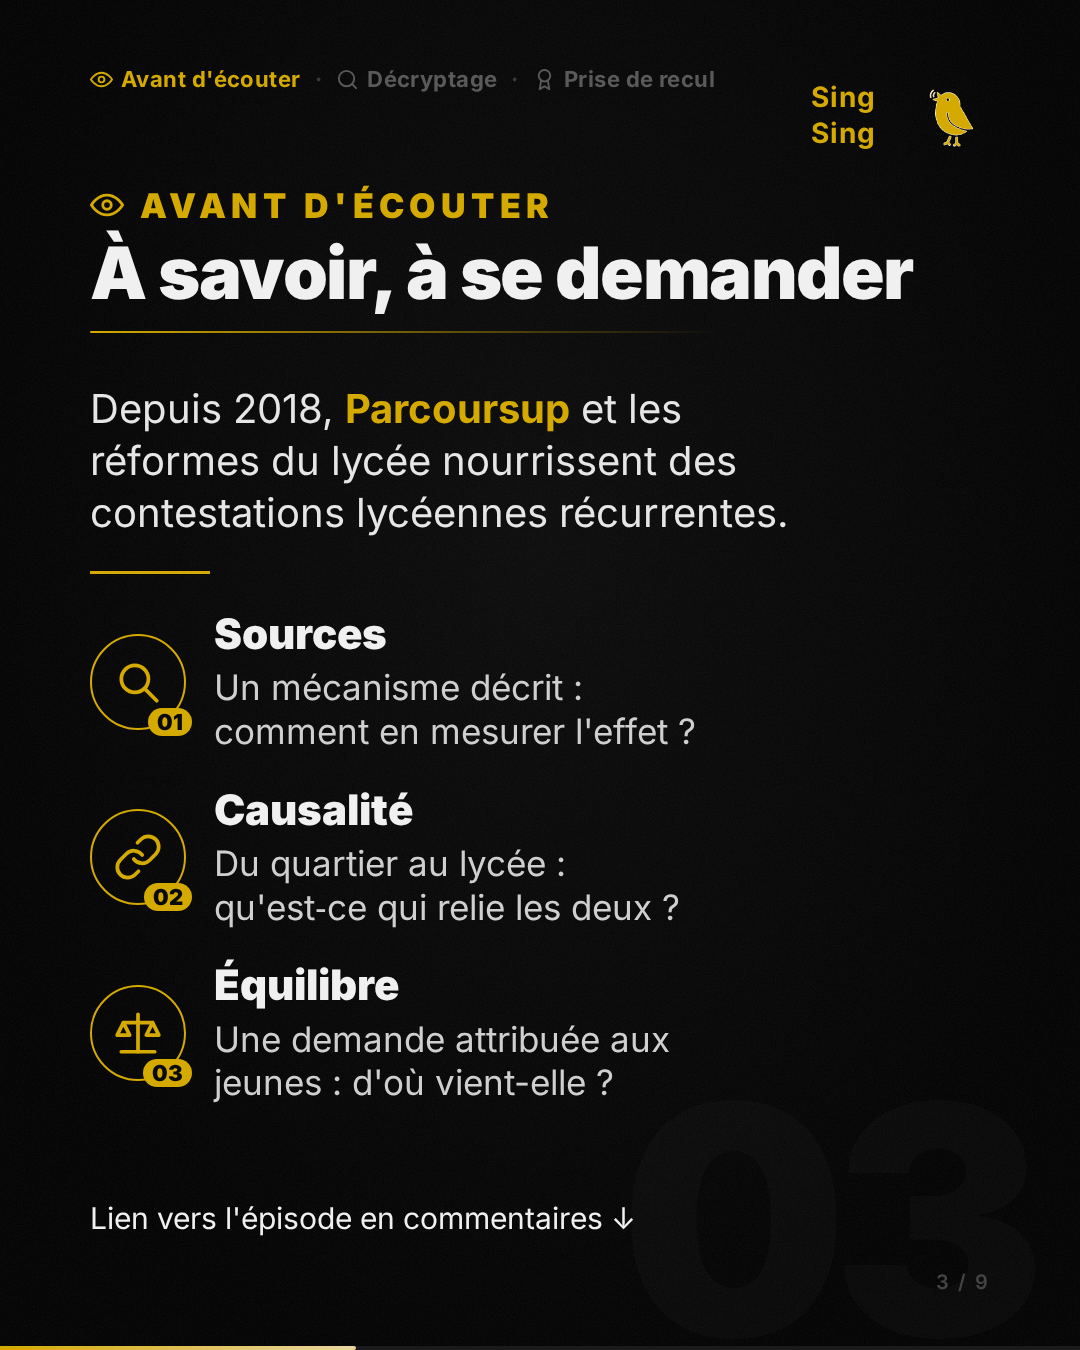
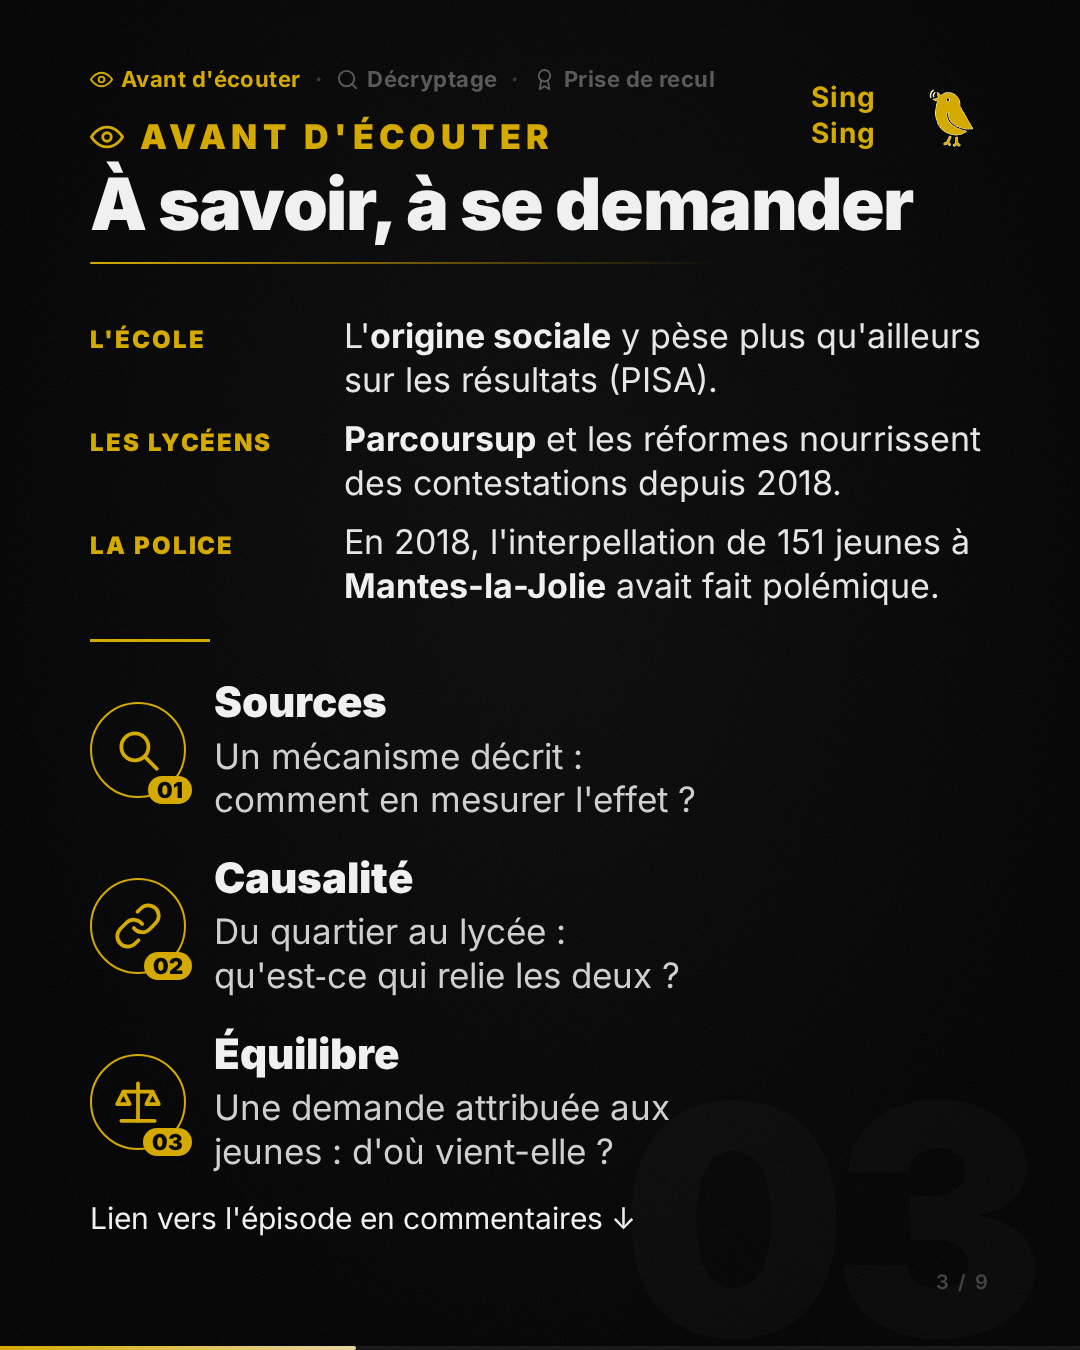
chore(samples): podcast_1 — objection points at pillar 01; slide 3 facts on school, lycéens, police

Changed region(s): [[0.0611, 0.0933, 0.9167, 0.8711]]

diff --git a/samples/podcasts/podcast_1/instagram_carousel_optimized/html/07_socle.html b/samples/podcasts/podcast_1/instagram_carousel_optimized/html/07_socle.html
@@ -407,27 +407,34 @@ body {
 .trk.on { color: #d4aa00; }
 .trk svg { width: 23px; height: 23px; stroke: currentColor; fill: none; stroke-width: 2; stroke-linecap: round; stroke-linejoin: round; }
 .trk-sep { color: #3a3a3a; }
-/* « Le socle de l'argument » drawn as what it is: the thesis as a roof, the
-   présupposés it rests on as pillars over a base, the objection below. The
-   reader sees the argument's structure before reading it. */
+/* The argument drawn as a structure: the thesis as the slide's title, the
+   présupposés it rests on as pillars over a base, the objection below. When the
+   objection names the pillar it weakens (`target`, 1-based), that pillar is
+   outlined, the others dim, and an arrow runs from the objection up to it —
+   the link is drawn, not left to a metaphor the reader has to decode. */
 .stage { flex: 1; display: flex; flex-direction: column; justify-content: center; }
-.stage > .kick { margin-bottom: 26px; }
-.lbl { display: block; font-size: 22px; font-weight: 800; letter-spacing: .12em; text-transform: uppercase; color: #d4aa00; margin-bottom: 8px; }
-.roof { border: 2px solid #d4aa00; border-radius: 14px; padding: 22px 28px; font-size: 44px; font-weight: 900;
-  line-height: 1.12; letter-spacing: -0.01em; color: #f0f0f0; text-wrap: balance; }
-.roof strong, .pillar strong, .objection strong { color: #d4aa00; }
-.pillars { display: grid; gap: 18px; margin: 18px 22px 0; }
-.pillar { position: relative; background: #161616; border-radius: 10px 10px 0 0; padding: 22px 18px 26px;
+.head { font-size: 60px; font-weight: 900; line-height: 1.12; letter-spacing: -0.02em; color: #f0f0f0; text-wrap: balance; }
+.head strong, .pillar strong, .objection strong { color: #d4aa00; }
+.lbl { display: flex; align-items: center; gap: 10px; font-size: 22px; font-weight: 800; letter-spacing: .12em; text-transform: uppercase; color: #d4aa00; margin-bottom: 8px; }
+.lbl svg { width: 24px; height: 24px; stroke: #d4aa00; fill: none; stroke-width: 2; stroke-linecap: round; stroke-linejoin: round; }
+.under { margin-top: 44px; }
+.cols { display: grid; gap: 18px; margin: 0 22px; }
+.pillar { background: #161616; border-radius: 10px 10px 0 0; padding: 22px 18px 26px;
   min-height: 300px; font-size: 30px; line-height: 1.3; color: #e6e6e6; }
 .pillar .n { display: block; font-size: 34px; font-weight: 900; color: #d4aa00; margin-bottom: 10px; }
-.base { height: 18px; background: #d4aa00; border-radius: 4px; margin: 0 6px; position: relative; }
-.base span { position: absolute; left: 0; right: 0; top: 26px; display: flex; gap: 10px; justify-content: center; align-items: center;
-  font-size: 24px; font-weight: 700; color: #9a9a9a; letter-spacing: .06em; }
-.base svg { width: 26px; height: 26px; stroke: #9a9a9a; fill: none; stroke-width: 2; stroke-linecap: round; stroke-linejoin: round; }
-.objection { margin-top: 74px; font-size: 34px; line-height: 1.32; color: #e6e6e6; text-wrap: pretty; }
+.pillar.dim { opacity: .38; }
+.pillar.target { outline: 3px dashed #d4aa00; outline-offset: -3px; background: #1d1a0c; }
+.base { height: 18px; background: #d4aa00; border-radius: 4px; margin: 0 6px; }
+.arrow { height: 64px; display: flex; justify-content: center; }
+.arrow i { position: relative; width: 3px; height: 54px; margin-top: 10px; background: #d4aa00; }
+.arrow i::before { content: ''; position: absolute; left: -7px; top: -10px; border: 8.5px solid transparent;
+  border-bottom: 12px solid #d4aa00; border-top: 0; }
+.objection { margin-top: 10px; font-size: 34px; line-height: 1.32; color: #e6e6e6; text-wrap: pretty; }
+.objection.free { margin-top: 64px; }
 </style>
 </head>
 <body>
+
 
 
 
@@ -443,12 +450,17 @@ body {
   <span class="trk on"><svg viewBox="0 0 24 24"><circle cx="12" cy="8" r="6"/><path d="M15.5 13.5 17 22l-5-3-5 3 1.5-8.5"/></svg>Prise de recul</span>
 </div>
   <div class="stage">
-    <span class="kick"><svg viewBox="0 0 24 24"><rect x="9" y="3" width="6" height="5" rx="1"/><rect x="2" y="16" width="6" height="5" rx="1"/><rect x="16" y="16" width="6" height="5" rx="1"/><path d="M12 8v5M5 13h14M5 13v3M19 13v3"/></svg>Le socle de l'argument</span>
-    <div class="roof"><span class="lbl">La thèse</span>La colère lycéenne vient d&#39;<strong>inégalités anciennes</strong></div>
-    <div class="pillars" style="grid-template-columns: repeat(3, 1fr);">
-      <div class="pillar"><span class="n">01</span>qu&#39;un <strong>manque ancien</strong> explique l&#39;explosion</div><div class="pillar"><span class="n">02</span>que les bloqueurs viennent des <strong>quartiers</strong></div><div class="pillar"><span class="n">03</span>que les 180 lycées bloqués partagent les <strong>mêmes</strong> revendications</div>
+    <h1 class="head">La colère lycéenne vient d&#39;<strong>inégalités anciennes</strong></h1>
+    <div class="under">
+      <span class="lbl"><svg viewBox="0 0 24 24"><circle cx="12" cy="5" r="3"/><line x1="12" y1="22" x2="12" y2="8"/><path d="M5 12H2a10 10 0 0 0 20 0h-3"/></svg>Ce qu&#39;il tient pour acquis</span>
+      <div class="cols" style="grid-template-columns: repeat(3, 1fr);">
+        <div class="pillar target"><span class="n">01</span>qu&#39;un <strong>manque ancien</strong> explique l&#39;explosion</div><div class="pillar dim"><span class="n">02</span>que les bloqueurs viennent des <strong>quartiers</strong></div><div class="pillar dim"><span class="n">03</span>que les 180 lycées bloqués partagent les <strong>mêmes</strong> revendications</div>
+      </div>
+      <div class="base"></div>
+      <div class="cols" style="grid-template-columns: repeat(3, 1fr);">
+        <div class="arrow"><i></i></div><div class="arrow"></div><div class="arrow"></div>
+      </div>
     </div>
-    <div class="base"><span><svg viewBox="0 0 24 24"><circle cx="12" cy="5" r="3"/><line x1="12" y1="22" x2="12" y2="8"/><path d="M5 12H2a10 10 0 0 0 20 0h-3"/></svg>Ce qu&#39;il tient pour acquis</span></div>
     <div class="objection"><span class="lbl">L&#39;objection la plus solide</span>Les inégalités sont le terreau de la colère ; l&#39;<strong>étincelle</strong>, elle, date de cette semaine.</div>
   </div>
   <div class="next-hook-bar"><span style="color: #d4aa00; font-weight: 700;">Avant de trancher &#8250;</span></div>

diff --git a/samples/podcasts/podcast_1/instagram_carousel_optimized/html/03_reperes.html b/samples/podcasts/podcast_1/instagram_carousel_optimized/html/03_reperes.html
@@ -415,6 +415,12 @@ body {
 .head { font-size: 72px; font-weight: 900; line-height: 1.04; letter-spacing: -0.02em; color: #f0f0f0; text-wrap: balance; margin-top: 10px; }
 .ctx { font-size: 40px; line-height: 1.3; color: #e6e6e6; max-width: 900px; margin-top: 30px; text-wrap: balance; }
 .ctx strong { color: #d4aa00; font-weight: 700; }
+/* labelled facts: what the reader needs to weigh the source, one line each */
+.facts { display: flex; flex-direction: column; gap: 16px; margin-top: 30px; }
+.fact { display: grid; grid-template-columns: 236px 1fr; gap: 18px; align-items: baseline; }
+.fact .fl { font-size: 24px; font-weight: 800; letter-spacing: .08em; white-space: nowrap; text-transform: uppercase; color: #d4aa00; }
+.fact .ft { font-size: 34px; line-height: 1.28; color: #e6e6e6; text-wrap: pretty; }
+.fact .ft strong { color: #f0f0f0; font-weight: 700; }
 .sep2 { width: 120px; height: 3px; background: #d4aa00; margin: 32px 0 36px; }
 .tools { display: flex; flex-direction: column; gap: 32px; }
 .tool { display: grid; grid-template-columns: 124px 1fr; align-items: center; }
@@ -446,7 +452,8 @@ body {
     <span class="kick"><svg viewBox="0 0 24 24"><path d="M1 12s4-7 11-7 11 7 11 7-4 7-11 7-11-7-11-7z"/><circle cx="12" cy="12" r="3"/></svg>Avant d&#39;écouter</span>
     <h1 class="head">À savoir, à se demander</h1>
     <div class="divider"></div>
-    <p class="ctx">Depuis 2018, <strong>Parcoursup</strong> et les réformes du lycée nourrissent des contestations lycéennes récurrentes.</p>
+    <div class="facts"><div class="fact"><span class="fl">L&#39;école</span><p class="ft">L&#39;<strong>origine sociale</strong> y pèse plus qu&#39;ailleurs sur les résultats (PISA).</p></div><div class="fact"><span class="fl">Les lycéens</span><p class="ft"><strong>Parcoursup</strong> et les réformes nourrissent des contestations depuis 2018.</p></div><div class="fact"><span class="fl">La police</span><p class="ft">En 2018, l&#39;interpellation de 151 jeunes à <strong>Mantes-la-Jolie</strong> avait fait polémique.</p></div></div>
+    
     
     <div class="sep2"></div>
     <div class="tools">
